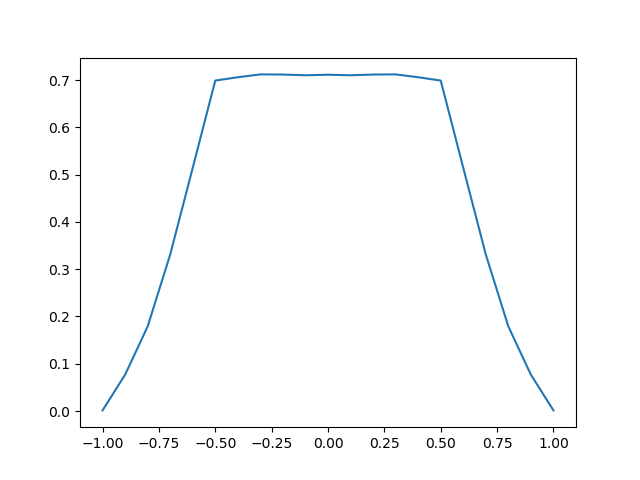
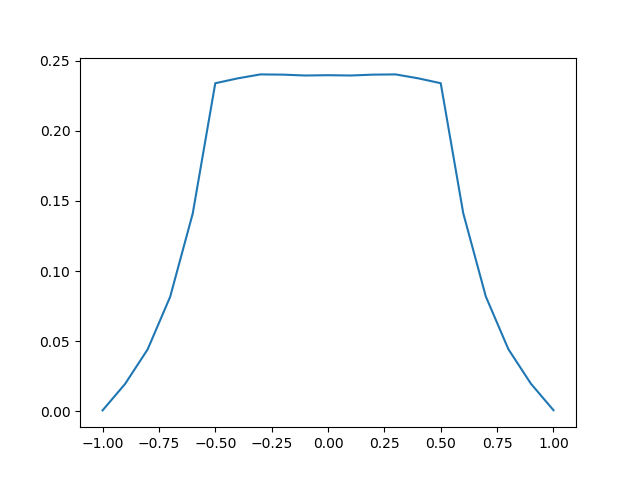
Not much

diff --git a/Code/error_model.py b/Code/error_model.py
@@ -6,6 +6,7 @@ from pychebfun import Chebfun
 import gmpy2
 from gmpy2 import mpfr
 import random
+import os
 
 class ErrorModel:
 
@@ -19,13 +20,14 @@ class ErrorModel:
     def compute(self):
         #self.cdf=Chebfun.from_function(lambda t:self.__getcdf(t), N=42)
         self.pdf=cheb.Chebyshev.interpolate(lambda t:self.__getpdf(t),deg=42)
+        #self.pdf=Chebfun.from_function(lambda t:self.__getpdf(t), N=64  )
         x=np.linspace(-1,1,21)
-        #y=self.__getpdf(x)
         z=self.pdf(x)
         print(repr(self.pdf.integ(lbnd=-1)(1)))
         plt.plot(x, z)
-        plt.savefig('pics/TH_'+repr(self.inputdistribution.getName()).replace("'",'')+'_'+repr(self.precision))
-        #plt.savefig('pics/TH_reallyweird_'+repr(self.precision))
+        #print(repr(self.pdf.sum()))
+        strFile ='pics/TH_'+repr(self.inputdistribution.getName()).replace("'",'')+'_'+repr(self.precision)
+        plt.savefig(strFile)
         plt.clf()
 
 

diff --git a/Code/main.py b/Code/main.py
@@ -6,7 +6,7 @@ import pacal
 import time
 
 def test_error_model(distribution):
-    error=ErrorModel(distribution,2,-1,1)
+    error=ErrorModel(distribution,10,-5,5)
     error.compute()
 
 
@@ -24,7 +24,7 @@ def test_simple_tests():
 
 #main:
 start = time.time()
-dist = pacal.UniformDistr(-100,100)
+dist = pacal.UniformDistr(-50,50)
 test_error_model(dist)
 #test_plot_error(dist)
 end = time.time()
